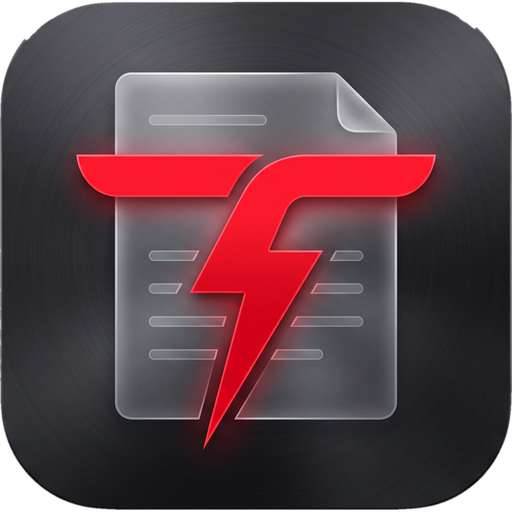
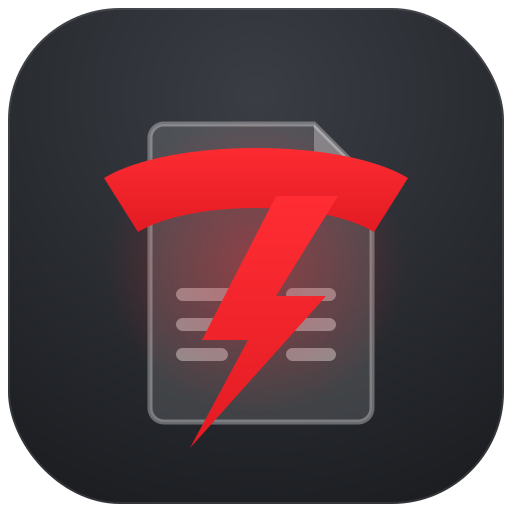
Bump Tesla Invoices to 2026.07.19.1
Date-based CalVer (YYYY.MM.DD.N) from now on. New vector app icon, PWA
install for standalone use, VIN redaction in logs, dashboard metadata cache,
audit hardening (symlink-safe chown, export endpoints behind the
X-Requested-With header), and SBOMs with every application release.
Repo README: check-image/license badges; app README: dashboard screenshot.

diff --git a/ha-tesla-invoices/CHANGELOG.md b/ha-tesla-invoices/CHANGELOG.md
@@ -1,4 +1,31 @@
 <!-- https://developers.home-assistant.io/docs/apps/presentation#keeping-a-changelog -->
+## 2026.07.19.1
+
+- **New versioning scheme**: releases are now fully date-based —
+  `YYYY.MM.DD.N`, where `N` counts releases published on the same day.
+- **New app icon**, redrawn as vector art in the familiar style and used
+  consistently across the app store, the dashboard favicon (which follows
+  your light/dark theme automatically) and the new PWA install.
+- **Installable as an app (PWA)** when the dashboard is opened directly in a
+  browser (standalone deployments): use *Install app* / *Add to Home
+  Screen* for a standalone window. Inside Home Assistant, ingress and the
+  companion app work exactly as before.
+- **Privacy: the full VIN no longer leaks into the app log.** Log lines
+  that mention invoice file names (which embed the VIN) now redact it down
+  to its last four characters, so logs are safe to paste into bug reports.
+- **Faster dashboard with a large invoice history**: metadata is served
+  from an always-fresh in-memory cache instead of re-reading every file on
+  each dashboard refresh — quicker, and easier on SD cards.
+- **Security hardening** from an external audit: container volume
+  ownership is fixed without following symlinks; the CSV/ZIP export
+  endpoints now require the same `X-Requested-With` header as every other
+  API call, so foreign websites cannot hot-link them; token reads are fully
+  lock-protected; and `/health` stays responsive during a long PDF re-scan
+  (no more risk of a spurious watchdog restart).
+- Every release of the application repository now ships an SBOM (software
+  bill of materials), and the README documents how to keep the app alive
+  should it ever become unmaintained.
+
 ## 2026.07.08
 
 - **Easier Tesla login**: the *Connect Tesla account* dialog now walks you

diff --git a/README.md b/README.md
@@ -2,6 +2,9 @@
 
 [![Open app repo on your Home Assistant instance][repo-badge]][repo-link]
 
+[![Check image tags](https://github.com/steiner-dominik/home-assistant-apps/actions/workflows/check-image.yml/badge.svg)](https://github.com/steiner-dominik/home-assistant-apps/actions/workflows/check-image.yml)
+[![License: MIT](https://img.shields.io/badge/license-MIT-green.svg)](LICENSE)
+
 [![GitHub Sponsors](https://img.shields.io/badge/GitHub%20Sponsors-%E2%9D%A4-EA4AAA?logo=githubsponsors&logoColor=white)](https://github.com/sponsors/steiner-dominik)
 [![Ko-fi](https://img.shields.io/badge/Ko--fi-donate-FF5E5B?logo=kofi&logoColor=white)](https://ko-fi.com/dominik_steiner)
 [![Buy Me a Coffee](https://img.shields.io/badge/Buy%20Me%20a%20Coffee-support-FFDD00?logo=buymeacoffee&logoColor=black)](https://buymeacoffee.com/dominik.st)

diff --git a/ha-tesla-invoices/README.md b/ha-tesla-invoices/README.md
@@ -12,6 +12,13 @@
 - 🚗 Multi-vehicle and multi-currency aware
 - 🔑 Only a refresh token is needed — access tokens are handled automatically
 
+<p align="center">
+  <picture>
+    <source media="(prefers-color-scheme: dark)" srcset="https://raw.githubusercontent.com/steiner-dominik/tesla-invoices/main/docs/screenshot-dashboard-dark.png">
+    <img src="https://raw.githubusercontent.com/steiner-dominik/tesla-invoices/main/docs/screenshot-dashboard-light.png" alt="The analytics dashboard with example data" width="720">
+  </picture>
+</p>
+
 See [DOCS.md](DOCS.md) for installation and all configuration options.
 
 This app runs the prebuilt image from
